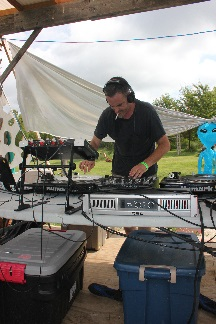
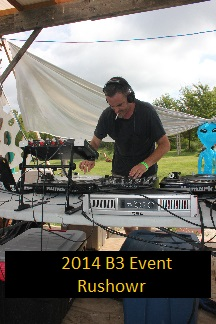
Minor changes for diff testing in p4merge

Changed region(s): [[0.0, 0.7716, 1.0, 0.9259], [0.1667, 0.8951, 0.25, 0.9259]]

diff --git a/README.md b/README.md
@@ -1,2 +1,4 @@
 # git-mindofmir-testing
 Just a short term repository for testing
+
+Changed Image slightly for diff check
